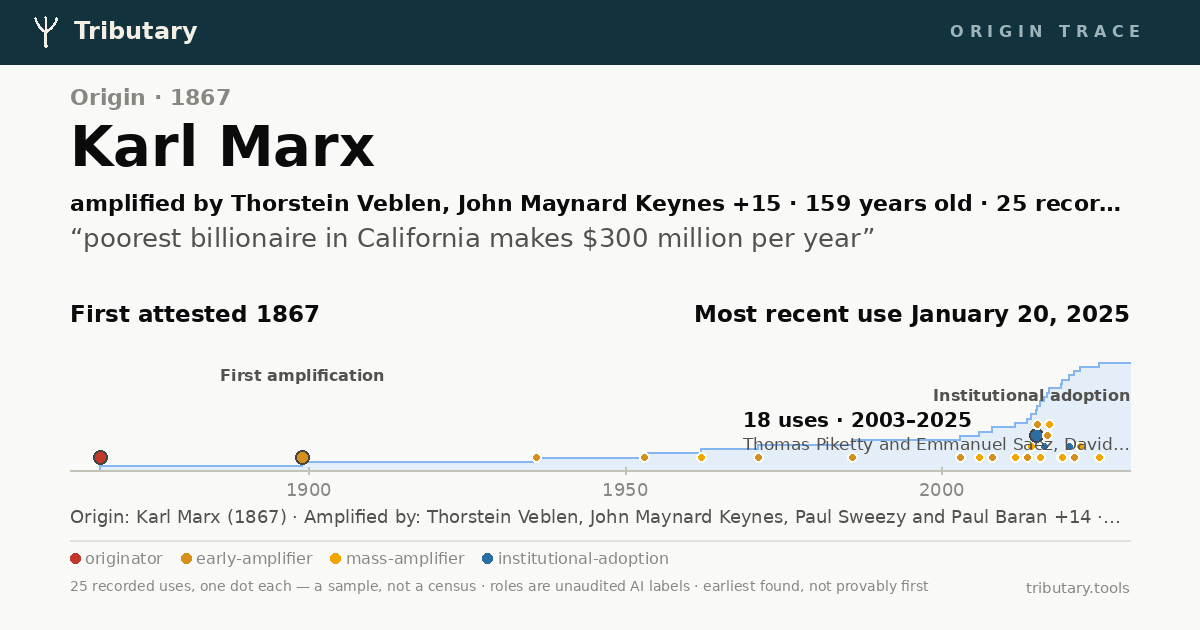
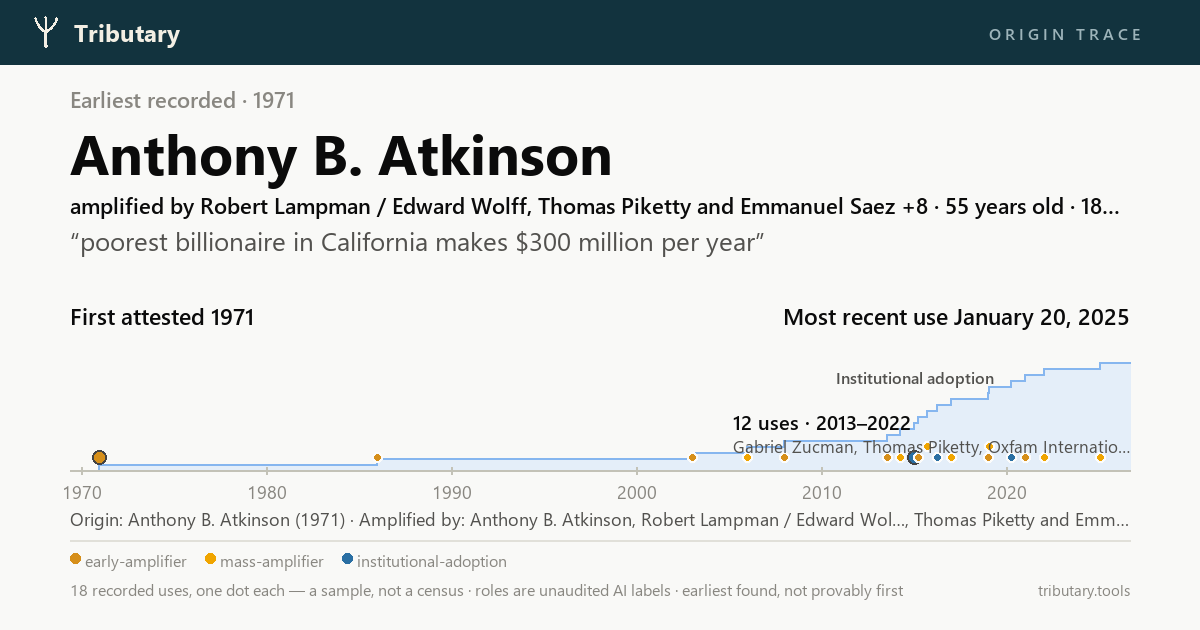
Instance is not thesis: the wealth-stat trace corrected; the coverage boundary speaks
A 2026 statistic born on X traced to 'single-origin: Karl Marx, 1867,
0.92' — the conceptual layer abstracted a specific quantitative claim
into the broadest doctrine and found the doctrine's deepest root,
while the entry's own fields recorded that Marx asserts different
propositions. Seven doctrine entries demoted to related-context with
dated notes; the idea lineage re-anchors at the quantitative
top-wealth tradition (Atkinson 1971, earliest-found); stats re-derived
per the moon-correction precedent; the card re-rendered (159y -> 55y).
Third identity-gate disease, now queued in the role-prompt batch.

The deeper finding is the coverage boundary: the claim's phrasing has
zero public-web history because it was born on social media, which
Tributary does not index - and the bare '0 phrasings' explained none
of that. The viewer now states the boundary whenever the phrasing
lineage is empty, names the three possible readings, and prompts the
reader to contribute the social-origin receipt the crawler cannot
reach.

diff --git a/gallery/cards/370061844a5f.html b/gallery/cards/370061844a5f.html
@@ -3,18 +3,18 @@
 <head>
 <meta charset="utf-8">
 <meta name="viewport" content="width=device-width, initial-scale=1">
-<title>Origin: Karl Marx — Tributary</title>
+<title>Earliest recorded: Anthony B. Atkinson — Tributary</title>
 <meta property="og:type" content="article">
 <meta property="og:site_name" content="Tributary">
-<meta property="og:title" content="Karl Marx — origin of “poorest billionaire in California makes $300 million per yea”">
-<meta property="og:description" content="Amplified by Thorstein Veblen, John Maynard Keynes +15. “poorest billionaire in California makes $300 million per year” — first attested 1867 (159 years old). 25 recorded uses. Every date and source has a receipt. AI-traced, not human-reviewed.">
+<meta property="og:title" content="Anthony B. Atkinson — earliest recorded of “poorest billionaire in California makes $300 million per yea”">
+<meta property="og:description" content="Amplified by Robert Lampman / Edward Wolff, Thomas Piketty and Emmanuel Saez +8. “poorest billionaire in California makes $300 million per year” — first attested 1971 (55 years old). 18 recorded uses. Every date and source has a receipt. AI-traced, not human-reviewed.">
 <meta property="og:image" content="https://tributary.tools/gallery/cards/370061844a5f.png">
 <meta property="og:image:width" content="1200">
 <meta property="og:image:height" content="630">
-<meta property="og:image:alt" content="Origin: Karl Marx. Timeline of 25 recorded uses from 1867 onward. “poorest billionaire in California makes $300 million per year”">
+<meta property="og:image:alt" content="Earliest recorded: Anthony B. Atkinson. Timeline of 18 recorded uses from 1971 onward. “poorest billionaire in California makes $300 million per year”">
 <meta property="og:url" content="https://tributary.tools/gallery/cards/370061844a5f.html">
 <meta name="twitter:card" content="summary_large_image">
-<meta name="description" content="Amplified by Thorstein Veblen, John Maynard Keynes +15. “poorest billionaire in California makes $300 million per year” — first attested 1867 (159 years old). 25 recorded uses. Every date and source has a receipt. AI-traced, not human-reviewed.">
+<meta name="description" content="Amplified by Robert Lampman / Edward Wolff, Thomas Piketty and Emmanuel Saez +8. “poorest billionaire in California makes $300 million per year” — first attested 1971 (55 years old). 18 recorded uses. Every date and source has a receipt. AI-traced, not human-reviewed.">
 <style>
   :root { color-scheme: light; }
   * { box-sizing: border-box; }
@@ -61,16 +61,16 @@
 <div class="wrap">
   <div class="card">
     <div class="kicker">Tributary · origin trace</div>
-    <div class="eyebrow">Origin · 1867</div>
-    <div class="headline">Karl Marx</div>
-    <p class="deck">amplified by Thorstein Veblen, John Maynard Keynes +15 · 159 years old · 25 recorded uses</p>
+    <div class="eyebrow">Earliest recorded · 1971</div>
+    <div class="headline">Anthony B. Atkinson</div>
+    <p class="deck">amplified by Robert Lampman / Edward Wolff, Thomas Piketty and Emmanuel Saez +8 · 55 years old · 18 recorded uses</p>
     <p class="phrase">“poorest billionaire in California makes $300 million per year”</p>
-    <svg viewBox="0 0 760 212" role="img" aria-label="Timeline of 25 recorded uses from 1867; Most recent use January 20, 2025"><style>.ms{font:600 15px system-ui;fill:#0b0b0b}.s{font:12.5px system-ui;fill:#898781}.t{font:11.5px system-ui;fill:#898781}.msl{font:600 11.5px system-ui;fill:#52514e}</style><polygon points="10.0,178.0 30.9,178.0 30.9,174.4 172.3,174.4 172.3,170.8 335.7,170.8 335.7,167.2 410.8,167.2 410.8,163.6 450.6,163.6 450.6,160.0 490.3,160.0 490.3,156.4 556.6,156.4 556.6,152.8 631.7,152.8 631.7,149.2 644.9,149.2 644.9,145.6 653.7,145.6 653.7,142.0 670.1,142.0 670.1,138.4 678.4,138.4 678.4,134.8 681.5,134.8 681.5,131.2 684.9,131.2 684.9,127.6 685.8,127.6 685.8,124.0 687.8,124.0 687.8,120.4 690.2,120.4 690.2,116.8 692.6,116.8 692.6,113.2 693.7,113.2 693.7,109.6 702.3,109.6 702.3,106.0 702.6,106.0 702.6,102.4 707.9,102.4 707.9,98.8 711.2,98.8 711.2,95.2 715.8,95.2 715.8,91.6 729.1,91.6 729.1,88.0 750.0,88.0 750.0,178.0" fill="#cde2fb" fill-opacity="0.55"/><polyline points="10.0,178.0 30.9,178.0 30.9,174.4 172.3,174.4 172.3,170.8 335.7,170.8 335.7,167.2 410.8,167.2 410.8,163.6 450.6,163.6 450.6,160.0 490.3,160.0 490.3,156.4 556.6,156.4 556.6,152.8 631.7,152.8 631.7,149.2 644.9,149.2 644.9,145.6 653.7,145.6 653.7,142.0 670.1,142.0 670.1,138.4 678.4,138.4 678.4,134.8 681.5,134.8 681.5,131.2 684.9,131.2 684.9,127.6 685.8,127.6 685.8,124.0 687.8,124.0 687.8,120.4 690.2,120.4 690.2,116.8 692.6,116.8 692.6,113.2 693.7,113.2 693.7,109.6 702.3,109.6 702.3,106.0 702.6,106.0 702.6,102.4 707.9,102.4 707.9,98.8 711.2,98.8 711.2,95.2 715.8,95.2 715.8,91.6 729.1,91.6 729.1,88.0 750.0,88.0" fill="none" stroke="#86b6ef" stroke-width="1.5"/><line x1="10" y1="178" x2="750" y2="178" stroke="#c3c2b7" stroke-width="1.5"/><line x1="176.7" y1="175" x2="176.7" y2="181" stroke="#c3c2b7"/><text x="176.7" y="195" text-anchor="middle" class="t">1900</text><line x1="397.6" y1="175" x2="397.6" y2="181" stroke="#c3c2b7"/><text x="397.6" y="195" text-anchor="middle" class="t">1950</text><line x1="618.4" y1="175" x2="618.4" y2="181" stroke="#c3c2b7"/><text x="618.4" y="195" text-anchor="middle" class="t">2000</text><circle cx="30.9" cy="165.0" r="6" fill="#c0392b" stroke="#444444" stroke-width="1.5"><title>1867-01-01 · Karl Marx · originator</title></circle><circle cx="172.3" cy="165.0" r="6" fill="#d68f1a" stroke="#444444" stroke-width="1.5"><title>First amplification — 1899-01-01 · Thorstein Veblen · early-amplifier</title></circle><circle cx="335.7" cy="165.0" r="4" fill="#d68f1a" stroke="#fcfcfb" stroke-width="1.5"><title>1936-01-01 · John Maynard Keynes · early-amplifier</title></circle><circle cx="410.8" cy="165.0" r="4" fill="#d68f1a" stroke="#fcfcfb" stroke-width="1.5"><title>1953-01-01 · Paul Sweezy and Paul Baran · early-amplifier</title></circle><circle cx="450.6" cy="165.0" r="4" fill="#f0a500" stroke="#fcfcfb" stroke-width="1.5"><title>1962-01-01 · Michael Harrington · mass-amplifier</title></circle><circle cx="490.3" cy="165.0" r="4" fill="#d68f1a" stroke="#fcfcfb" stroke-width="1.5"><title>1971-01-01 · Anthony B. Atkinson · early-amplifier</title></circle><circle cx="556.6" cy="165.0" r="4" fill="#d68f1a" stroke="#fcfcfb" stroke-width="1.5"><title>1986-01-01 · Robert Lampman / Edward Wolff · early-amplifier</title></circle><circle cx="631.7" cy="165.0" r="4" fill="#d68f1a" stroke="#fcfcfb" stroke-width="1.5"><title>2003-01-01 · Thomas Piketty and Emmanuel Saez · early-amplifier</title></circle><circle cx="644.9" cy="165.0" r="4" fill="#f0a500" stroke="#fcfcfb" stroke-width="1.5"><title>2006-01-01 · David Cay Johnston · mass-amplifier</title></circle><circle cx="653.7" cy="165.0" r="4" fill="#d68f1a" stroke="#fcfcfb" stroke-width="1.5"><title>2008-01-01 · Andreas Fagereng, Luigi Guiso, Davide Malacrino, Luigi Pistaferri · early-amplifier</title></circle><circle cx="670.1" cy="165.0" r="4" fill="#f0a500" stroke="#fcfcfb" stroke-width="1.5"><title>2011-09-17 · Occupy Wall Street organizers · mass-amplifier</title></circle><circle cx="678.4" cy="165.0" r="4" fill="#d68f1a" stroke="#fcfcfb" stroke-width="1.5"><title>2013-08-01 · Gabriel Zucman · early-amplifier</title></circle><circle cx="681.5" cy="156.0" r="4" fill="#f0a500" stroke="#fcfcfb" stroke-width="1.5"><title>2014-04-15 · Thomas Piketty · mass-amplifier</title></circle><circle cx="684.9" cy="147.0" r="6" fill="#2a6fa3" stroke="#444444" stroke-width="1.5"><title>Institutional adoption — 2015-01-19 · Oxfam International · institutional-adoption</title></circle><circle cx="685.8" cy="165.0" r="4" fill="#d68f1a" stroke="#fcfcfb" stroke-width="1.5"><title>2015-04-01 · Gabriel Zucman · early-amplifier</title></circle><circle cx="687.8" cy="156.0" r="4" fill="#f0a500" stroke="#fcfcfb" stroke-width="1.5"><title>2015-09-15 · Various Guardian journalists incl. Aditya Chakrabortty · mass-amplifier</title></circle><circle cx="690.2" cy="147.0" r="4" fill="#2a6fa3" stroke="#fcfcfb" stroke-width="1.5"><title>2016-04-01 · Lawrence Mishel and Alyssa Davis, Economic Policy Institute · institutional-adoption</title></circle><circle cx="692.6" cy="138.0" r="4" fill="#d68f1a" stroke="#fcfcfb" stroke-width="1.5"><title>2016-10-21 · Michael Hudson · early-amplifier</title></circle><circle cx="693.7" cy="129.0" r="4" fill="#f0a500" stroke="#fcfcfb" stroke-width="1.5"><title>2017-01-16 · Oxfam International · mass-amplifier</title></circle><circle cx="702.3" cy="165.0" r="4" fill="#d68f1a" stroke="#fcfcfb" stroke-width="1.5"><title>2019-01-01 · James Best and Keshav Dogra, Federal Reserve Bank of New York · early-amplifier</title></circle><circle cx="702.6" cy="156.0" r="4" fill="#f0a500" stroke="#fcfcfb" stroke-width="1.5"><title>2019-01-21 · Oxfam International · mass-amplifier</title></circle><circle cx="707.9" cy="165.0" r="4" fill="#2a6fa3" stroke="#fcfcfb" stroke-width="1.5"><title>2020-04-01 · Institute for Policy Studies · institutional-adoption</title></circle><circle cx="711.2" cy="156.0" r="4" fill="#d68f1a" stroke="#fcfcfb" stroke-width="1.5"><title>2021-01-01 · Multiple authors · early-amplifier</title></circle><circle cx="715.8" cy="165.0" r="4" fill="#f0a500" stroke="#fcfcfb" stroke-width="1.5"><title>2022-01-17 · Oxfam International · mass-amplifier</title></circle><circle cx="729.1" cy="165.0" r="4" fill="#f0a500" stroke="#fcfcfb" stroke-width="1.5"><title>2025-01-20 · Oxfam International · mass-amplifier</title></circle><text x="172.3" y="58" text-anchor="middle" class="msl">First amplification</text><text x="681.8" y="74" text-anchor="middle" class="msl">Institutional adoption</text><text x="583.6" y="104.0" text-anchor="middle" style="font:600 13.5px system-ui" fill="#0b0b0b">18 uses · 2003–2025</text><text x="583.6" y="121.0" text-anchor="middle" class="s">Thomas Piketty and Emmanuel Saez, David Cay Johnsto…</text><text x="10" y="20" class="ms">First attested 1867</text><text x="10" y="38" class="s">Karl Marx</text><text x="750" y="20" text-anchor="end" class="ms">Most recent use January 20, 2025</text></svg>
-    <p class="who">Origin: Karl Marx (1867) · Amplified by: Thorstein Veblen, John Maynard Keynes, Paul Sweezy and Paul Baran +14 · Adopted by: Oxfam International, Lawrence Mishel and Alyssa… +1</p>
-    <div class="legend"><span class="lg"><span class="lgdot" style="background:#c0392b"></span>originator</span><span class="lg"><span class="lgdot" style="background:#d68f1a"></span>early-amplifier</span><span class="lg"><span class="lgdot" style="background:#f0a500"></span>mass-amplifier</span><span class="lg"><span class="lgdot" style="background:#2a6fa3"></span>institutional-adoption</span></div>
+    <svg viewBox="0 0 760 212" role="img" aria-label="Timeline of 18 recorded uses from 1971; Most recent use January 20, 2025"><style>.ms{font:600 15px system-ui;fill:#0b0b0b}.s{font:12.5px system-ui;fill:#898781}.t{font:11.5px system-ui;fill:#898781}.msl{font:600 11.5px system-ui;fill:#52514e}</style><polygon points="10.0,178.0 30.9,178.0 30.9,173.0 224.7,173.0 224.7,168.0 444.2,168.0 444.2,163.0 483.0,163.0 483.0,158.0 508.8,158.0 508.8,153.0 580.9,153.0 580.9,148.0 590.0,148.0 590.0,143.0 599.9,143.0 599.9,138.0 602.5,138.0 602.5,133.0 608.3,133.0 608.3,128.0 615.4,128.0 615.4,123.0 625.6,123.0 625.6,118.0 650.9,118.0 650.9,113.0 651.6,113.0 651.6,108.0 667.0,108.0 667.0,103.0 676.7,103.0 676.7,98.0 690.2,98.0 690.2,93.0 729.1,93.0 729.1,88.0 750.0,88.0 750.0,178.0" fill="#cde2fb" fill-opacity="0.55"/><polyline points="10.0,178.0 30.9,178.0 30.9,173.0 224.7,173.0 224.7,168.0 444.2,168.0 444.2,163.0 483.0,163.0 483.0,158.0 508.8,158.0 508.8,153.0 580.9,153.0 580.9,148.0 590.0,148.0 590.0,143.0 599.9,143.0 599.9,138.0 602.5,138.0 602.5,133.0 608.3,133.0 608.3,128.0 615.4,128.0 615.4,123.0 625.6,123.0 625.6,118.0 650.9,118.0 650.9,113.0 651.6,113.0 651.6,108.0 667.0,108.0 667.0,103.0 676.7,103.0 676.7,98.0 690.2,98.0 690.2,93.0 729.1,93.0 729.1,88.0 750.0,88.0" fill="none" stroke="#86b6ef" stroke-width="1.5"/><line x1="10" y1="178" x2="750" y2="178" stroke="#c3c2b7" stroke-width="1.5"/><line x1="18.0" y1="175" x2="18.0" y2="181" stroke="#c3c2b7"/><text x="18.0" y="195" text-anchor="middle" class="t">1970</text><line x1="147.2" y1="175" x2="147.2" y2="181" stroke="#c3c2b7"/><text x="147.2" y="195" text-anchor="middle" class="t">1980</text><line x1="276.3" y1="175" x2="276.3" y2="181" stroke="#c3c2b7"/><text x="276.3" y="195" text-anchor="middle" class="t">1990</text><line x1="405.5" y1="175" x2="405.5" y2="181" stroke="#c3c2b7"/><text x="405.5" y="195" text-anchor="middle" class="t">2000</text><line x1="534.7" y1="175" x2="534.7" y2="181" stroke="#c3c2b7"/><text x="534.7" y="195" text-anchor="middle" class="t">2010</text><line x1="663.8" y1="175" x2="663.8" y2="181" stroke="#c3c2b7"/><text x="663.8" y="195" text-anchor="middle" class="t">2020</text><circle cx="30.9" cy="165.0" r="6" fill="#d68f1a" stroke="#444444" stroke-width="1.5"><title>1971-01-01 · Anthony B. Atkinson · early-amplifier</title></circle><circle cx="224.7" cy="165.0" r="4" fill="#d68f1a" stroke="#fcfcfb" stroke-width="1.5"><title>1986-01-01 · Robert Lampman / Edward Wolff · early-amplifier</title></circle><circle cx="444.2" cy="165.0" r="4" fill="#d68f1a" stroke="#fcfcfb" stroke-width="1.5"><title>2003-01-01 · Thomas Piketty and Emmanuel Saez · early-amplifier</title></circle><circle cx="483.0" cy="165.0" r="4" fill="#f0a500" stroke="#fcfcfb" stroke-width="1.5"><title>2006-01-01 · David Cay Johnston · mass-amplifier</title></circle><circle cx="508.8" cy="165.0" r="4" fill="#d68f1a" stroke="#fcfcfb" stroke-width="1.5"><title>2008-01-01 · Andreas Fagereng, Luigi Guiso, Davide Malacrino, Luigi Pistaferri · early-amplifier</title></circle><circle cx="580.9" cy="165.0" r="4" fill="#d68f1a" stroke="#fcfcfb" stroke-width="1.5"><title>2013-08-01 · Gabriel Zucman · early-amplifier</title></circle><circle cx="590.0" cy="165.0" r="4" fill="#f0a500" stroke="#fcfcfb" stroke-width="1.5"><title>2014-04-15 · Thomas Piketty · mass-amplifier</title></circle><circle cx="599.9" cy="165.0" r="6" fill="#2a6fa3" stroke="#444444" stroke-width="1.5"><title>Institutional adoption — 2015-01-19 · Oxfam International · institutional-adoption</title></circle><circle cx="602.5" cy="156.0" r="4" fill="#d68f1a" stroke="#fcfcfb" stroke-width="1.5"><title>2015-04-01 · Gabriel Zucman · early-amplifier</title></circle><circle cx="608.3" cy="165.0" r="4" fill="#f0a500" stroke="#fcfcfb" stroke-width="1.5"><title>2015-09-15 · Various Guardian journalists incl. Aditya Chakrabortty · mass-amplifier</title></circle><circle cx="615.4" cy="165.0" r="4" fill="#2a6fa3" stroke="#fcfcfb" stroke-width="1.5"><title>2016-04-01 · Lawrence Mishel and Alyssa Davis, Economic Policy Institute · institutional-adoption</title></circle><circle cx="625.6" cy="165.0" r="4" fill="#f0a500" stroke="#fcfcfb" stroke-width="1.5"><title>2017-01-16 · Oxfam International · mass-amplifier</title></circle><circle cx="650.9" cy="165.0" r="4" fill="#d68f1a" stroke="#fcfcfb" stroke-width="1.5"><title>2019-01-01 · James Best and Keshav Dogra, Federal Reserve Bank of New York · early-amplifier</title></circle><circle cx="651.6" cy="156.0" r="4" fill="#f0a500" stroke="#fcfcfb" stroke-width="1.5"><title>2019-01-21 · Oxfam International · mass-amplifier</title></circle><circle cx="667.0" cy="165.0" r="4" fill="#2a6fa3" stroke="#fcfcfb" stroke-width="1.5"><title>2020-04-01 · Institute for Policy Studies · institutional-adoption</title></circle><circle cx="676.7" cy="165.0" r="4" fill="#d68f1a" stroke="#fcfcfb" stroke-width="1.5"><title>2021-01-01 · Multiple authors · early-amplifier</title></circle><circle cx="690.2" cy="165.0" r="4" fill="#f0a500" stroke="#fcfcfb" stroke-width="1.5"><title>2022-01-17 · Oxfam International · mass-amplifier</title></circle><circle cx="729.1" cy="165.0" r="4" fill="#f0a500" stroke="#fcfcfb" stroke-width="1.5"><title>2025-01-20 · Oxfam International · mass-amplifier</title></circle><text x="599.9" y="58" text-anchor="middle" class="msl">Institutional adoption</text><text x="583.6" y="114.0" text-anchor="middle" style="font:600 13.5px system-ui" fill="#0b0b0b">12 uses · 2013–2022</text><text x="583.6" y="131.0" text-anchor="middle" class="s">Gabriel Zucman, Thomas Piketty, Oxfam International…</text><text x="10" y="20" class="ms">First attested 1971</text><text x="10" y="38" class="s">Anthony B. Atkinson</text><text x="750" y="20" text-anchor="end" class="ms">Most recent use January 20, 2025</text></svg>
+    <p class="who">Origin: Anthony B. Atkinson (1971) · Amplified by: Anthony B. Atkinson, Robert Lampman / Edward Wol…, Thomas Piketty and Emmanuel… +8 · Adopted by: Oxfam International, Lawrence Mishel and Alyssa… +1</p>
+    <div class="legend"><span class="lg"><span class="lgdot" style="background:#d68f1a"></span>early-amplifier</span><span class="lg"><span class="lgdot" style="background:#f0a500"></span>mass-amplifier</span><span class="lg"><span class="lgdot" style="background:#2a6fa3"></span>institutional-adoption</span></div>
     
     <div class="cardfoot">
-      <span>25 recorded uses · one dot each, colored by role — a sample, not a census · roles are unaudited AI labels · first attested 1867, the earliest we found</span>
+      <span>18 recorded uses · one dot each, colored by role — a sample, not a census · roles are unaudited AI labels · first attested 1971, the earliest we found</span>
       <span>AI-traced, not human-reviewed</span>
     </div>
   </div>
@@ -80,7 +80,7 @@
 
   <p class="honesty">
     This card is AI-generated and not yet human-reviewed. “First attested” is the earliest
-    use our search found — attestation confidence as recorded by the pipeline: 0.92 —
+    use our search found — attestation confidence as recorded by the pipeline: 0.78 —
     and an earlier one may exist. Dot order shows sequence, not influence, and the shaded area shows the share of recorded uses accumulated by each date — the tempo of our sample, not audience reach; hover any dot
     for its date, source, and role. Role labels (originator / amplifier / adoption /
     critic) are AI judgments that have not yet passed a human audit. The full trace

diff --git a/fingerprint_viewer.html b/fingerprint_viewer.html
@@ -1912,6 +1912,31 @@ function render(fp) {
     }
   }
 
+  // No-web-history note (2026-10-11, Tarek's call after a claim born on X
+  // traced to "0 phrasings" with no explanation): an empty phrasing lineage
+  // is ambiguous between "brand new", "born on social media we don't
+  // index", and "too niche" — the page must explain the instrument's
+  // coverage boundary instead of showing a bare zero.
+  document.getElementById('noweb-banner')?.remove();
+  {
+    const lexlog = (fp.genealogy?.lexical?.attestation_log || [])
+      .filter(i => (i.claim_relation || '') !== 'related-context');
+    if (lexlog.length === 0 && !document.getElementById('weak-banner')) {
+      document.querySelector('main')?.insertAdjacentHTML('beforebegin',
+        `<div id="noweb-banner" style="max-width:1160px;margin:0.9rem auto 0;
+          padding:0.8rem 1.2rem;background:#eaf1f7;border:1px solid #a9c4d8;
+          border-radius:10px;font-size:0.92rem;color:#1f4257;">
+          <strong>No prior uses of this phrasing were found on the public web.</strong>
+          Tributary searches the open internet — not social platforms. A claim
+          that began on X, TikTok, Reddit threads, or private groups can show
+          no web history here: it may be very new, socially born, or both.
+          Any idea lineage below traces the <em>tradition</em> this claim
+          draws on, not this specific formulation. If you saw this claim
+          somewhere, add that source via “Add what we missed” below — reader
+          contributions carry the hops the crawler can't reach.</div>`);
+    }
+  }
+
   const meta = document.getElementById('meta-bar');
   meta.innerHTML = '';
   addMetaText(meta, 'narrative trace');

diff --git a/CORRECTIONS.md b/CORRECTIONS.md
@@ -40,6 +40,7 @@ These shaped the methodology and are disclosed in the same spirit:
 | 2026-09-24 | The in-page contribution flow, since it shipped (2026-09-13) | Every in-page contribution submission failed with a generic "upstream error": GitHub caps `repository_dispatch` payloads at **10 top-level properties** and the Worker sent 12 (13 after v2) — the relay was broken from day one and no submission ever reached intake | Payload restructured (routing fields top-level, the rest nested under `data`); workflow env mapping updated; verified by a real dispatch | The dispatch's failure status was checked but its response body (which names the limit precisely) was discarded, and the flow shipped "armed" without its end-to-end dry run — which sat as a standing blocker item precisely because it would have caught this. Found the day the dry run finally ran. Lesson: an untested integration is not "armed," and relay errors must surface their upstream reason. |
 | 2026-09-25 | Conceptual-lineage backfill of 8 lean traces (pre-publication audit; nothing shipped uncorrected) | At batch scale the two known diseases recurred: **six fiction/depiction works admitted as asserting entries** — a 1955 sci-fi story crowned *originator* of the moon-hoax idea, with Capricorn One, two mockumentaries, an Apple TV+ comedy, and *Gladiator* also asserting — and **12 unevidenced `originator` labels across 5 traces** (four on the Greenland-doctrine trace alone) | Fiction → related-context/mention with dated notes; originators demoted to the one evidenced coining per lineage (or none — a doctrine that evolved has no coiner); first-attested/status/stats re-derived. Post-fix: moon-hoax anchors on the 1969 contemporaneous skeptics with Kaysing (1976) sole originator; Roman-thumbs is single-origin at Gérôme's 1872 *Pollice Verso*, matching the scholarship | Same root as 2026-09-18: the ancestor-identity gate is absent from the adversarial pass's prompt, and "first documented" reads as "originated." Two traces (5G-COVID, cultural-appropriation) came through fully clean — the pipeline is right more often than not, but the audit-before-publish step remains load-bearing. Prompt fixes stay queued as one batch. |
 | 2026-09-30 | Four published traces in the local working tree (never pushed; the live site was never wrong) | cards.py's tap-through publish step still copied the builder-local fingerprints/ store OVER gallery/traces/ — reverting the moon-landing, Arctic, crypto, and decapitation traces to July versions without their September idea lineages. Any bare or --vs cards run re-triggered it | Copies now happen only when no published copy exists; gallery/ is the record and is never overwritten from the store. Proven by re-running the --vs path against a clean tree | Third instance of one disease: a builder-local source silently overwriting the published record (cards index 09-16, corpus index 09-25, now trace tap-through copies). Standing rule extracted: anything under gallery/ may only be written by flows that treat gallery/ as canonical. Caught by a pre-outreach review noticing unexplained working-tree modifications. |
+| 2026-10-11 | Published wealth-statistic trace 370061844a5f (live and listed ~1 day; its share card headlined "This idea is 159 years old") | The conceptual layer abstracted a specific 2026 statistic ("poorest California billionaire makes ~$300M/yr") into the broadest possible thesis ("extreme wealth concentration enables rapid accumulation") and then crowned Karl Marx's *Capital* (1867) its **single-origin at 0.92** — with the entry's own `lexical_form_seen` field recording that Marx asserts *different propositions* ("surplus value, primitive accumulation"). Six further doctrine works (Veblen, Keynes, Sweezy/Baran, Harrington, OWS, Hudson) also entered as asserting | Seven doctrine entries → related-context with dated notes; idea lineage re-anchored at the modern quantitative top-wealth measurement tradition (Atkinson 1971, `earliest-found`, 0.78); timeline stats re-derived from asserting entries (precedent: the moon-hoax correction); card re-rendered (159y → 55y) | A third identity-gate disease, sibling to fiction≠attestation and first-documented≠originator: **an instance of a tradition is not the tradition-founding doctrine**. The specific quantitative claim's nearest honest ancestor is the tradition making claims *of its form*, with deeper doctrine as context. Prompt gate queued in the role-prompt batch. Compounding factor: the claim was born on social media (requester saw it on X), which Tributary does not index — the empty phrasing lineage left a vacuum the over-reaching idea lineage filled; the viewer now explains the coverage boundary explicitly whenever the phrasing log is empty. |
 | 2026-10-01 | One published share card (vaccines-rebuttal trace 25a253481bed, live ~2 hours) | The first production cache-serve re-rendered the trace's share card on the CI runner, overwriting the published identity-styled card with a DejaVu-fallback-font render (the workflow ran `cards.py` on every request, serves included) — and broke the "a serve changes nothing" invariant with a pointless commit + deploy | Card and cards index restored from the pre-serve commit; the workflow now skips card rendering entirely when a request is served from the corpus | Fourth instance of the stale-source disease, new vector: a CI re-render is also a non-canonical source for a published artifact. The standing rule generalizes: on a serve path, NOTHING regenerates — the published record (trace, card, index) is served exactly as it stands. |
 | 2026-09-18 | Conceptual lineage (in-place upgrade of the AI-boyfriends trace, caught in pre-publication audit) | The adversarial "find something earlier" pass surfaced a 1959 Twilight Zone episode as the idea's **first attested date**, and the film *Her* re-entered as an *asserting* mass-amplifier — fiction as attestation, twice, in the same trace whose lexical log had just been corrected for exactly this | Both entries → related-context/mention with dated notes; first attestation moved to Weizenbaum 1966 (ELIZA); status held at earliest-found (the young-male-specific formulation has no single origin) | The ancestor-identity gate (fiction ≠ attestation) lives in the main ancestor-search prompt but not in the adversarial pass's prompt — the pass optimized for "earlier" found fiction because fiction is where ideas appear earliest. Prompt fix queued with the polarity-aware role batch. |
 | 2026-09-18 | Conceptual lineage (same upgrade, Iroquois trace, pre-publication) | Arthur C. Parker's 1916 *Constitution of the Five Nations* labeled `originator`/`single-origin` of the seven-generations idea — while the entry itself credits the Seth Newhouse manuscript, i.e. documents a pre-existing oral tradition | Role → early-amplifier, status → earliest-found, dated note; the viewer's "The idea, first documented" milestone already frames such anchors correctly | The originator-requires-coining-evidence rule is prompt-enforced but the model treats "first documented" as "originated" for oral-tradition ideas; same queued prompt batch. |

diff --git a/MISSION_PLAN.md b/MISSION_PLAN.md
@@ -473,6 +473,8 @@ researcher data request, bridging-org pilot, or educator classroom use.
 
 | 2026-10-08 | Quality gates batch (Tarek's call after a friend's playful query produced a noise trace — "Mexican love tacos" drew a 2006 taco-dip recipe as its "first attestation"): (1) **claim-shape gate** — a ~$0.001 Haiku check before any pipeline spend bounces non-claim input (bare keywords, fragments) with a rephrasing hint; judged on shape, never topic/viewpoint; --force bypasses; gate failure never blocks generation; the Worker/site gained a "rejected" state so the requester sees the reason, not a generic failure. (2) **Publication threshold** — a trace whose own layers report nothing reliable (diffuse/unknown + conf <0.4 + no idea lineage) stays reachable at its permalink under a prominent low-confidence banner but is UNLISTED: no corpus row, no search entry, no card (enforced in publish.py, cards.py, and the workflow; predicate mirrored in the viewer). Calibrated over all 19 published traces: exactly one tripped (the tacos trace, now unlisted; its CI-rendered card deleted and de-indexed). (3) METHODOLOGY gains "Publication threshold" and "What we refuse to trace" (private individuals/harassment — public figures stay traceable; written calmly before the first incident, per INCIDENT_PROTOCOL's spirit). (4) **Metrics de-noising within the privacy posture**: view beacons self-filter in-browser for declared automation (UA checked client-side, never stored); metrics.py filters likely-crawler region-days (views-only, homepage-only) by default with --all to include, and --regions gains an aggregate depth signal (distinct paths · searched · requested) — motivated by the certificate-transparency scanner wave that followed the new domain | Delete weak traces outright (requester loses their honest answer); confidence-only threshold (would silently eat honest earliest-found traces — the conjunctive predicate protects them); store session IDs for real bot detection (breaks the no-tracking posture) | Serving and publishing are different acts: the requester is owed the honest weak result loudly labeled; the corpus is the product and is curated by a public, stated rule. Unlisting also removes the main bad-faith incentive (junk never gets an audience with the site's credibility attached). The instrument already knew it was lost (status diffuse, conf 0.35, conceptual refusal) — the failures were presentation and amplification, both now gated. NEEDS TAREK: one worker.js paste (rejected state) |
 
+| 2026-10-11 | The coverage boundary becomes visible (Tarek's call after a claim born on X traced to a bare "0 phrasings" and an over-reaching Marx-1867 idea origin — see CORRECTIONS.md): (1) whenever a trace's phrasing lineage is empty, the viewer now states the boundary plainly — no public-web uses found; Tributary does not index social platforms; the claim may be new, socially born, or both; the idea lineage below traces the TRADITION, not this formulation — plus a contribution prompt, since the reader often holds the social-origin receipt the crawler cannot reach. (2) The instance≠thesis identity gate (a quantitative claim is an instance of a tradition, not the doctrine behind it) joins the role-prompt batch as its third gate, with this trace as the motivating regression case. (3) Social-media indexing timing settled as a posture, not a date: Reddit is public web and gets a targeted search pass when the phrasing lineage comes up empty (cheap, no API integration — the actual reshare in this case was reachable and the lean search budget never looked); Bluesky remains the first true social surface at Phase 3; X/TikTok/Instagram stay parked as API-hostile | Build social ingestion now; leave the bare zero and rely on reader inference; have the maintainer hand-annotate social origins case by case (does not scale — Tarek's explicit point) | An empty phrasing lineage is ambiguous across three very different realities, and the reader cannot tell which without being told the instrument's coverage boundary. Honest incompleteness stated loudly beats silent incompleteness — same principle as the low-confidence banner. The boundary note also converts the blind spot into the contribution layer's flagship case: human adds the hop the machine cannot see |
+
 ## Feedback Log
 
 *(Verbatim replies from multipliers, labeler subscribers, hostile readers. Date, who, quote, action taken.)*
